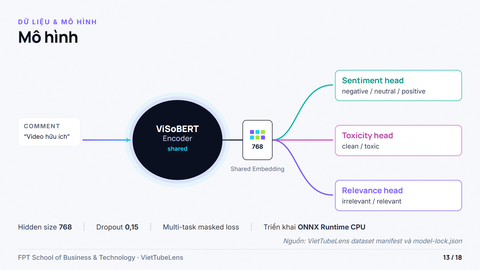
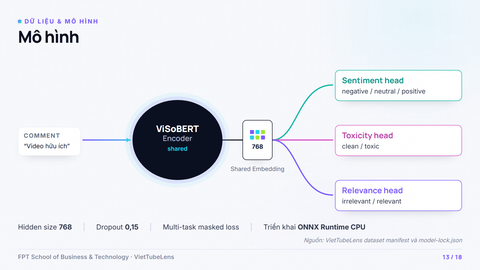
fix slide metrics and visual alignment

diff --git a/slide/viettubelens.slides/slides/results.html b/slide/viettubelens.slides/slides/results.html
@@ -7,9 +7,6 @@
   <div data-object="true" data-object-type="textbox" class="kicker" style="position:absolute;left:72px;top:72px;width:700px;z-index:10;">Silver development</div>
   <div data-object="true" data-object-type="textbox" class="title" style="position:absolute;left:72px;top:110px;width:760px;z-index:10;">Kết quả</div>
 
-  <!-- silver note: prominent -->
-  <div data-object="true" data-object-type="textbox" style="position:absolute;left:900px;top:112px;width:948px;padding:16px 26px;border-radius:16px;background:#FFF4DE;border:2px solid #F59E0B;font-size:28px;line-height:1.3;font-weight:700;color:#7A4E00;z-index:10;">Kết quả trên silver-development set, chưa phải gold accuracy chính thức.</div>
-
   <!-- chart 1: loss -->
   <div data-object="true" data-object-type="textbox" class="t34" style="position:absolute;left:72px;top:262px;width:400px;font-size:30px;z-index:10;">Train loss</div>
   <div data-object="true" data-object-type="chart" style="position:absolute;left:72px;top:316px;width:400px;height:300px;z-index:10;">
@@ -50,10 +47,10 @@
   <div data-object="true" data-object-type="shape" style="position:absolute;left:1000px;top:262px;width:848px;height:660px;border-radius:26px;background:#FFFFFF;border:1px solid #E3E7F1;z-index:1;"></div>
   <div data-object="true" data-object-type="shape" style="position:absolute;left:1040px;top:590px;width:768px;height:2px;background:#E3E7F1;z-index:1;"></div>
   <div data-object="true" data-object-type="shape" style="position:absolute;left:1423px;top:300px;width:2px;height:584px;background:#E3E7F1;z-index:1;"></div>
-  <div data-object="true" data-object-type="textbox" data-sequence="6" style="position:absolute;left:1050px;top:330px;width:350px;z-index:10;"><p data-count="0.641" class="h metric-value" style="font-size:96px;font-weight:800;line-height:1;color:#0F9488;">0,641</p><p style="margin-top:18px;font-size:28px;line-height:1.3;color:#2A3247;">Sentiment Macro-F1</p></div>
-  <div data-object="true" data-object-type="textbox" data-sequence="7" style="position:absolute;left:1470px;top:330px;width:350px;z-index:10;"><p data-count="0.849" class="h metric-value" style="font-size:96px;font-weight:800;line-height:1;color:#B93FA6;">0,849</p><p style="margin-top:18px;font-size:28px;line-height:1.3;color:#2A3247;">Toxicity Macro-F1</p></div>
-  <div data-object="true" data-object-type="textbox" data-sequence="8" style="position:absolute;left:1050px;top:650px;width:350px;z-index:10;"><p data-count="0.887" class="h metric-value" style="font-size:96px;font-weight:800;line-height:1;color:#B93FA6;">0,887</p><p style="margin-top:18px;font-size:28px;line-height:1.3;color:#2A3247;">Toxicity PR-AUC</p></div>
-  <div data-object="true" data-object-type="textbox" data-sequence="9" style="position:absolute;left:1470px;top:650px;width:350px;z-index:10;"><p data-count="0.895" class="h metric-value" style="font-size:96px;font-weight:800;line-height:1;color:#7C5CFC;">0,895</p><p style="margin-top:18px;font-size:28px;line-height:1.3;color:#2A3247;">Relevance Macro-F1</p></div>
+  <div data-object="true" data-object-type="textbox" data-sequence="6" style="position:absolute;left:1050px;top:330px;width:350px;z-index:10;"><p class="h metric-value" style="font-size:96px;font-weight:800;line-height:1;color:#0F9488;">0,641</p><p style="margin-top:18px;font-size:28px;line-height:1.3;color:#2A3247;">Sentiment Macro-F1</p></div>
+  <div data-object="true" data-object-type="textbox" data-sequence="7" style="position:absolute;left:1470px;top:330px;width:350px;z-index:10;"><p class="h metric-value" style="font-size:96px;font-weight:800;line-height:1;color:#B93FA6;">0,849</p><p style="margin-top:18px;font-size:28px;line-height:1.3;color:#2A3247;">Toxicity Macro-F1</p></div>
+  <div data-object="true" data-object-type="textbox" data-sequence="8" style="position:absolute;left:1050px;top:650px;width:350px;z-index:10;"><p class="h metric-value" style="font-size:96px;font-weight:800;line-height:1;color:#B93FA6;">0,887</p><p style="margin-top:18px;font-size:28px;line-height:1.3;color:#2A3247;">Toxicity PR-AUC</p></div>
+  <div data-object="true" data-object-type="textbox" data-sequence="9" style="position:absolute;left:1470px;top:650px;width:350px;z-index:10;"><p class="h metric-value" style="font-size:96px;font-weight:800;line-height:1;color:#7C5CFC;">0,895</p><p style="margin-top:18px;font-size:28px;line-height:1.3;color:#2A3247;">Relevance Macro-F1</p></div>
 
   <div data-object="true" data-object-type="textbox" class="src" style="position:absolute;left:948px;top:948px;width:900px;z-index:10;">Nguồn: VietTubeLens dataset manifest và model-lock.json</div>
   <div data-object="true" data-object-type="shape" style="position:absolute;left:72px;top:996px;width:1776px;height:2px;background:#E3E7F1;z-index:1;"></div>

diff --git a/slide/viettubelens.slides/slides/training.html b/slide/viettubelens.slides/slides/training.html
@@ -5,8 +5,6 @@
 <div class="slide-container" data-screen-label="14 Huấn luyện" style="position:relative;width:1920px;height:1080px;overflow:hidden;background:#F7F8FC;">
   <div data-object="true" data-object-type="textbox" class="kicker" style="position:absolute;left:72px;top:72px;width:760px;z-index:10;">Dữ liệu &amp; mô hình</div>
   <div data-object="true" data-object-type="textbox" class="title" style="position:absolute;left:72px;top:110px;width:760px;z-index:10;">Huấn luyện</div>
-  <div data-object="true" data-object-type="textbox" data-sequence="1" style="position:absolute;right:72px;top:118px;width:410px;height:58px;border-radius:999px;background:#FFF6E6;border:1px solid #F5D38D;display:flex;align-items:center;justify-content:center;font-size:23px;font-weight:800;color:#9A6505;z-index:10;">172 nhãn được điều chỉnh</div>
-
   <div data-object="true" data-object-type="textbox" data-sequence="1" class="story-card" style="position:absolute;left:72px;top:270px;width:410px;height:336px;padding:32px;border-color:#D8D0FF;z-index:10;">
     <div style="display:flex;align-items:center;justify-content:space-between;"><span class="stage-label" style="color:#7C5CFC;">01 · Data</span><span class="h" style="font-size:62px;font-weight:800;color:#E4DEFF;">01</span></div>
     <p class="h" style="margin-top:34px;font-size:42px;font-weight:800;line-height:1.1;">Dữ liệu</p>

diff --git a/slide/viettubelens.slides/assets/viewer.js b/slide/viettubelens.slides/assets/viewer.js
@@ -71,7 +71,7 @@ function update(nextIndex, { broadcast = true, initial = false } = {}) {
   const token = ++transitionToken;
   if (initial) {
     const frame = els.frames[activeSlot];
-    frame.src = `slides/${manifest.playlist[index]}?v=11`;
+    frame.src = `slides/${manifest.playlist[index]}?v=12`;
     frame.onload = () => { if (token !== transitionToken) return; fitStage(); signalFrame(frame, "vtl:replay"); };
     return;
   }
@@ -80,7 +80,7 @@ function update(nextIndex, { broadcast = true, initial = false } = {}) {
   const incomingSlot = activeSlot === 0 ? 1 : 0;
   const incoming = els.frames[incomingSlot];
   incoming.className = "slide-frame";
-  incoming.src = `slides/${manifest.playlist[index]}?v=11`;
+  incoming.src = `slides/${manifest.playlist[index]}?v=12`;
   incoming.onload = () => {
     if (token !== transitionToken) return;
     fitStage();

diff --git a/slide/viettubelens.slides/slides/model.html b/slide/viettubelens.slides/slides/model.html
@@ -21,7 +21,7 @@
   </div>
 
   <!-- comment input -->
-  <div data-object="true" data-object-type="textbox" data-sequence="1" style="position:absolute;left:72px;top:470px;width:250px;padding:20px 22px;border-radius:18px;background:#FFFFFF;border:1px solid #E3E7F1;z-index:10;">
+  <div data-object="true" data-object-type="textbox" data-sequence="1" style="position:absolute;left:72px;top:508px;width:250px;padding:20px 22px;border-radius:18px;background:#FFFFFF;border:1px solid #E3E7F1;z-index:10;">
     <p style="font-size:24px;font-weight:700;letter-spacing:.1em;text-transform:uppercase;color:#64748B;line-height:1.2;">Comment</p>
     <p style="margin-top:10px;font-size:25px;line-height:1.35;color:#0B1020;">“Video hữu ích”</p>
   </div>

diff --git a/slide/viettubelens.slides/index.html b/slide/viettubelens.slides/index.html
@@ -104,6 +104,6 @@
       </div>
     </div>
 
-    <script type="module" src="assets/viewer.js?v=13"></script>
+    <script type="module" src="assets/viewer.js?v=14"></script>
   </body>
 </html>
